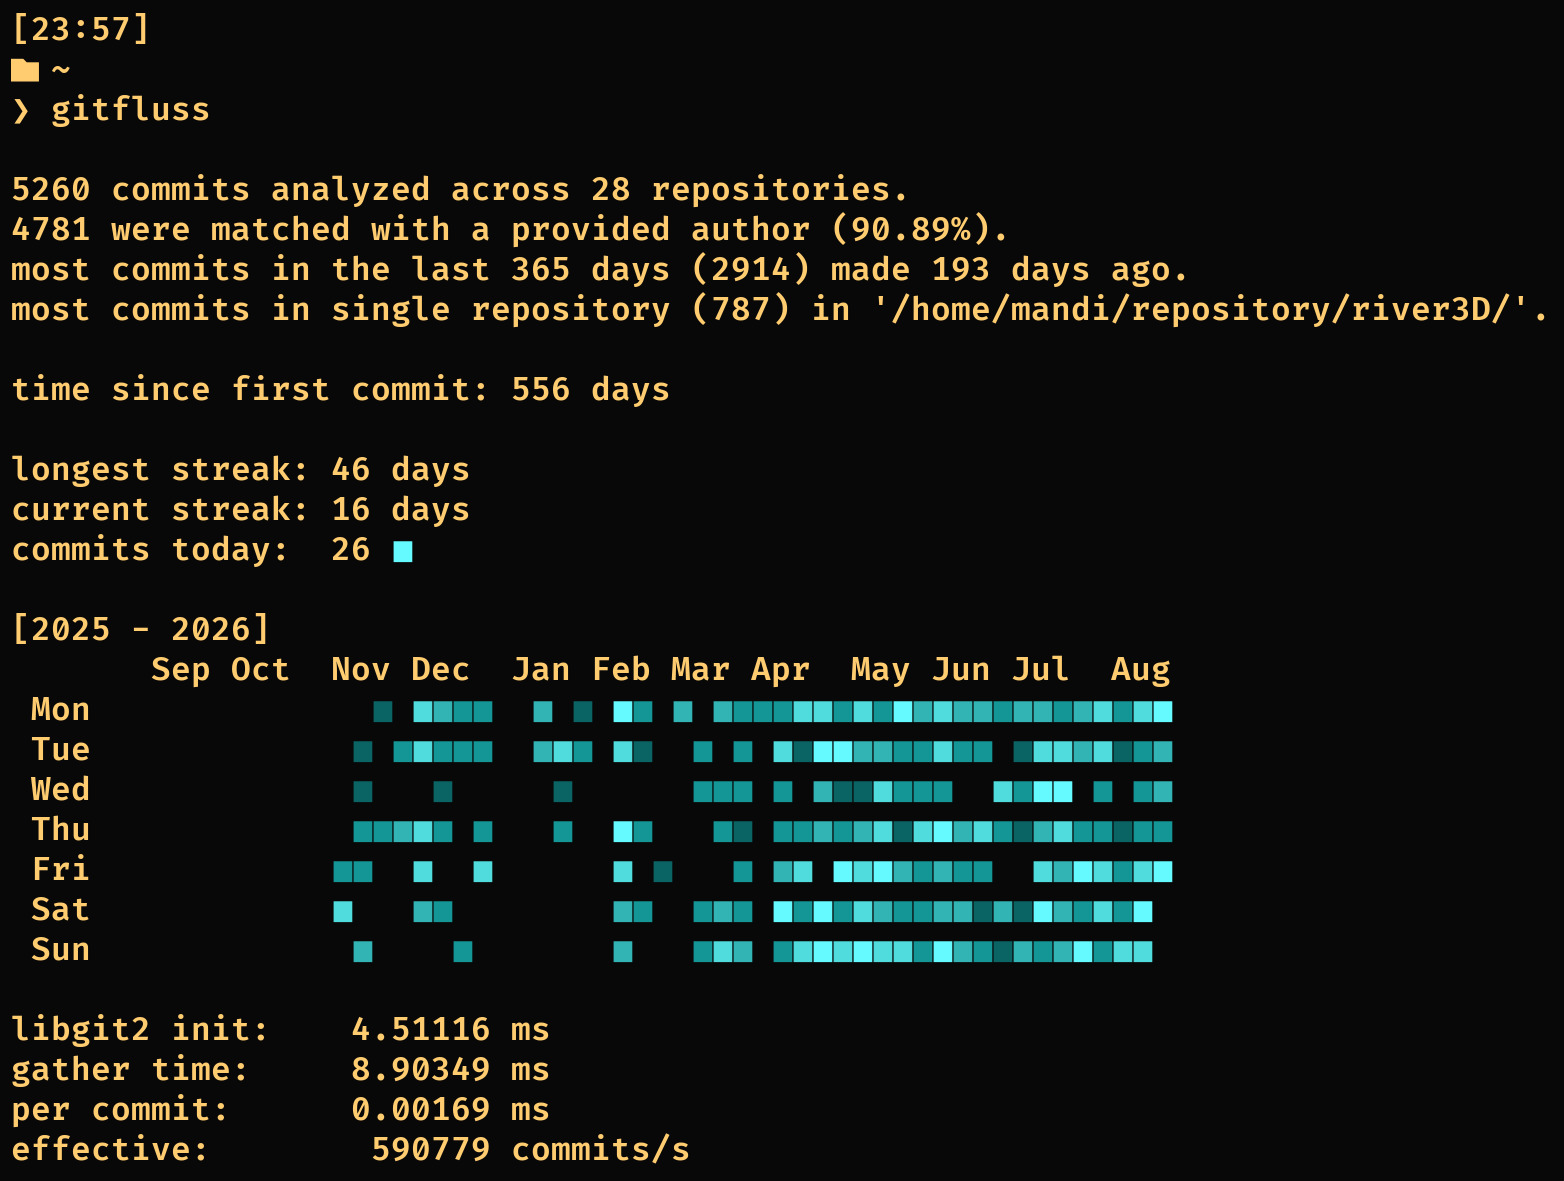
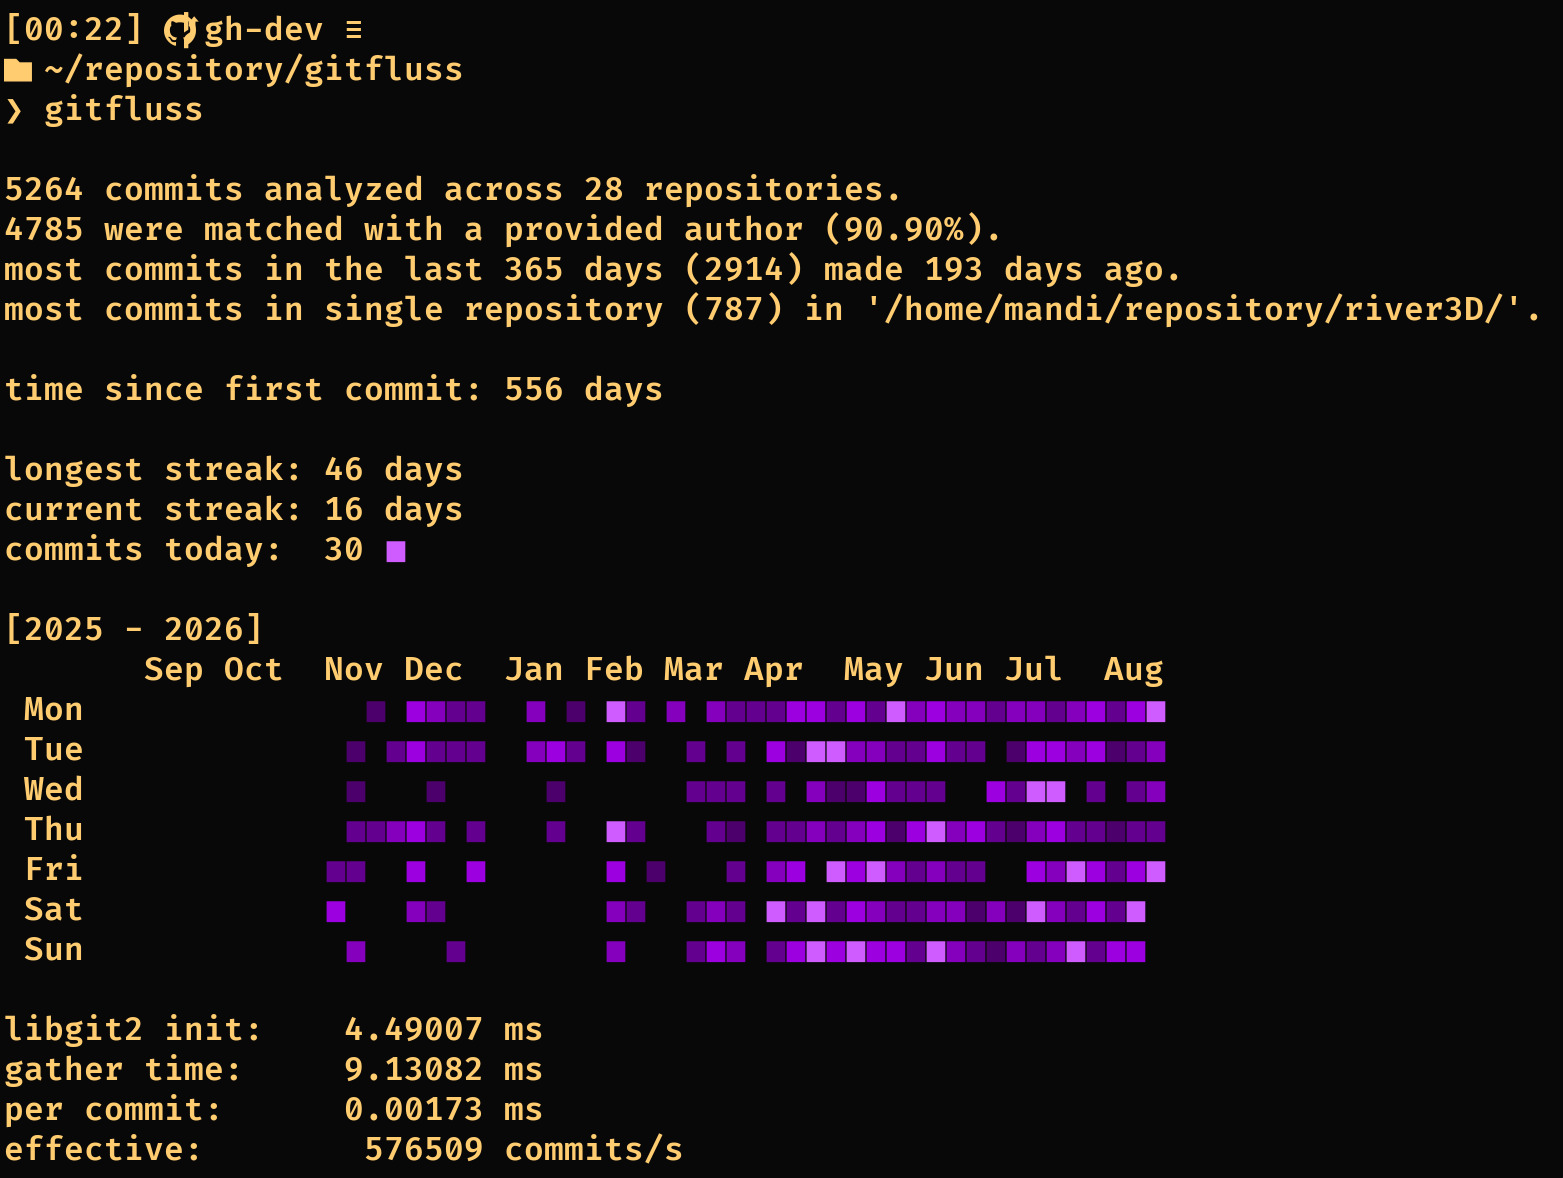
update preview (again)

diff --git a/README.md b/README.md
@@ -98,7 +98,7 @@ With `info: false`, you can hide the additional commit history information.
 With `author: any`, (or not specifying an author at all) you can omit the author check
 and count all commits by all authors in the listed repositories.
 
-With `years: 3` (any integer), you can set the amount of years to go back:
+With `years: 2` (any integer), you can set the amount of years to go back:
 
 ![yr](screenshots/years.jpg)
 
